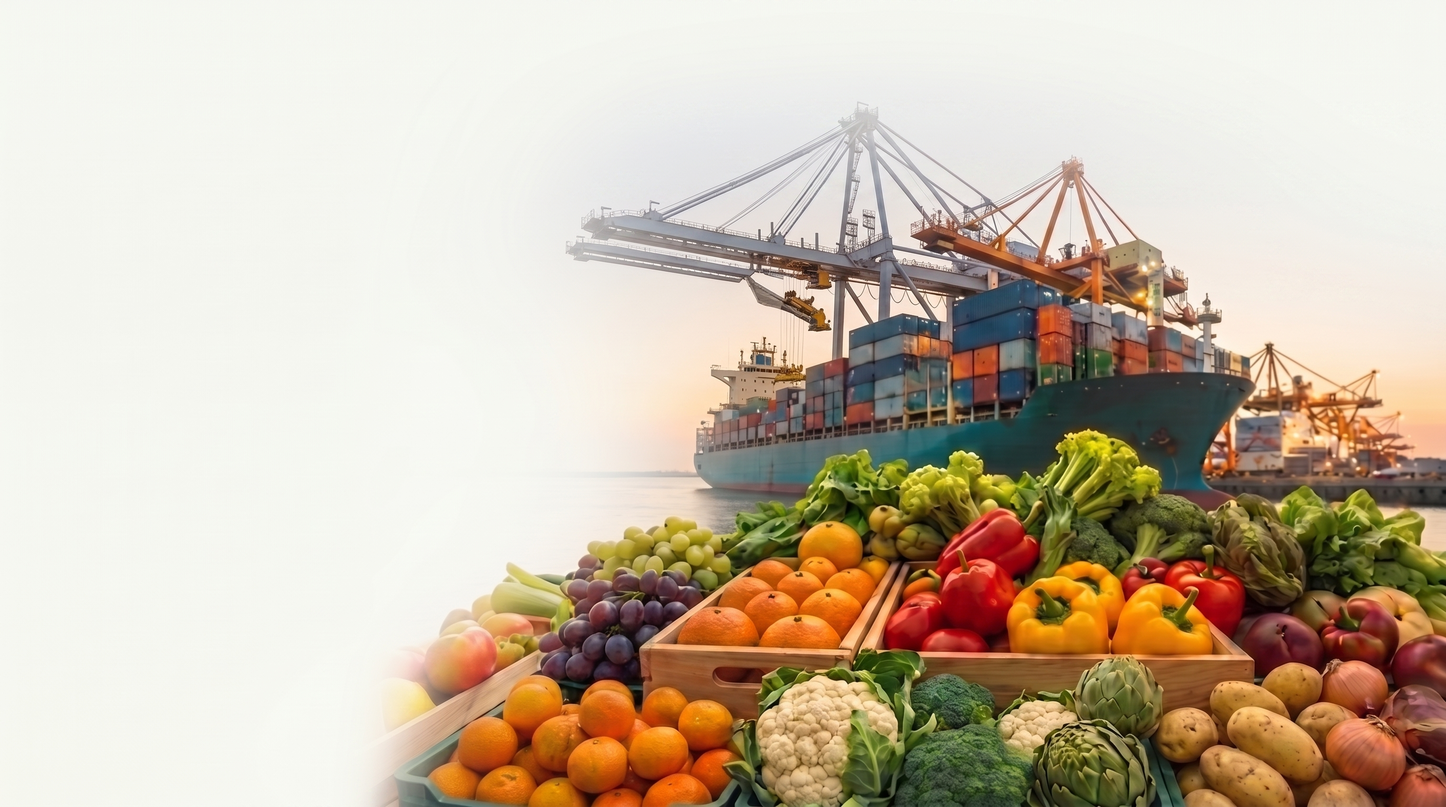
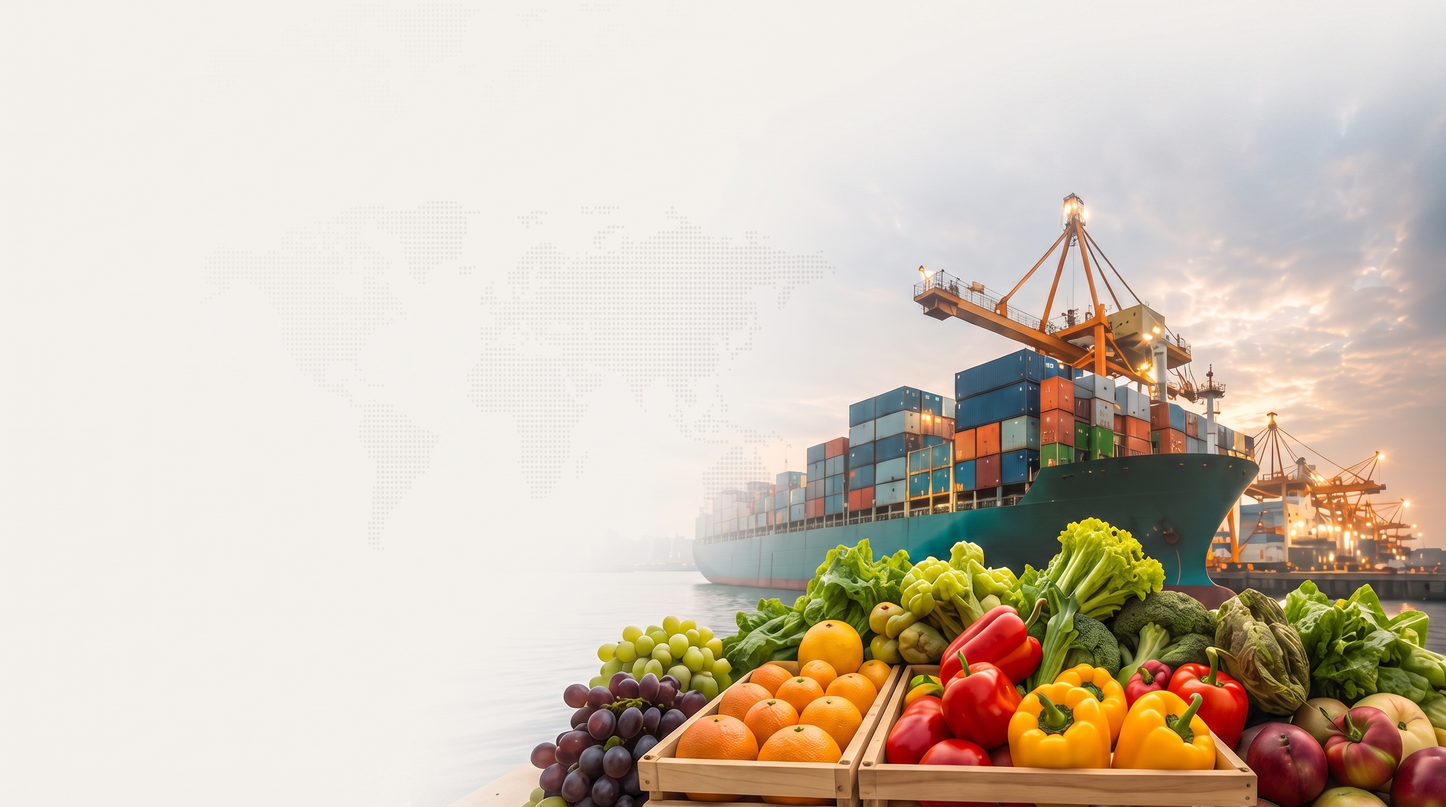
hero section enhanced2

diff --git a/index.html b/index.html
@@ -540,7 +540,7 @@
     <section class="relative overflow-hidden py-16 sm:py-20 my-12 w-full">
         <!-- BACKGROUND IMAGE -->
         <div class="absolute inset-0 z-0 pointer-events-none">
-            <img src="https://images.unsplash.com/photo-1542838132-92c53300491e?auto=format&fit=crop&w=1920&q=80" 
+            <img src="https://images.unsplash.com/photo-1542838132-92c53300491e?auto=format&fit=crop&w=1920&q=80"
                 alt="Fresh Produce Background" class="w-full h-full object-cover">
         </div>
         <!-- GREEN OVERLAY -->
@@ -554,7 +554,8 @@
                     <div class="text-4xl sm:text-5xl lg:text-6xl font-black text-vaks-lime tracking-tight">
                         <span class="stat-counter" data-target="15">0</span>+
                     </div>
-                    <p class="text-xs sm:text-sm font-extrabold uppercase tracking-wider text-white">Years of Experience</p>
+                    <p class="text-xs sm:text-sm font-extrabold uppercase tracking-wider text-white">Years of Experience
+                    </p>
                 </div>
 
                 <!-- Stat 2 -->
@@ -562,7 +563,8 @@
                     <div class="text-4xl sm:text-5xl lg:text-6xl font-black text-vaks-lime tracking-tight">
                         <span class="stat-counter" data-target="50">0</span>+
                     </div>
-                    <p class="text-xs sm:text-sm font-extrabold uppercase tracking-wider text-white">Countries Served</p>
+                    <p class="text-xs sm:text-sm font-extrabold uppercase tracking-wider text-white">Countries Served
+                    </p>
                 </div>
 
                 <!-- Stat 3 -->
@@ -570,7 +572,8 @@
                     <div class="text-4xl sm:text-5xl lg:text-6xl font-black text-vaks-lime tracking-tight">
                         <span class="stat-counter" data-target="1000">0</span>+
                     </div>
-                    <p class="text-xs sm:text-sm font-extrabold uppercase tracking-wider text-white">Successful Shipments</p>
+                    <p class="text-xs sm:text-sm font-extrabold uppercase tracking-wider text-white">Successful
+                        Shipments</p>
                 </div>
 
                 <!-- Stat 4 -->
